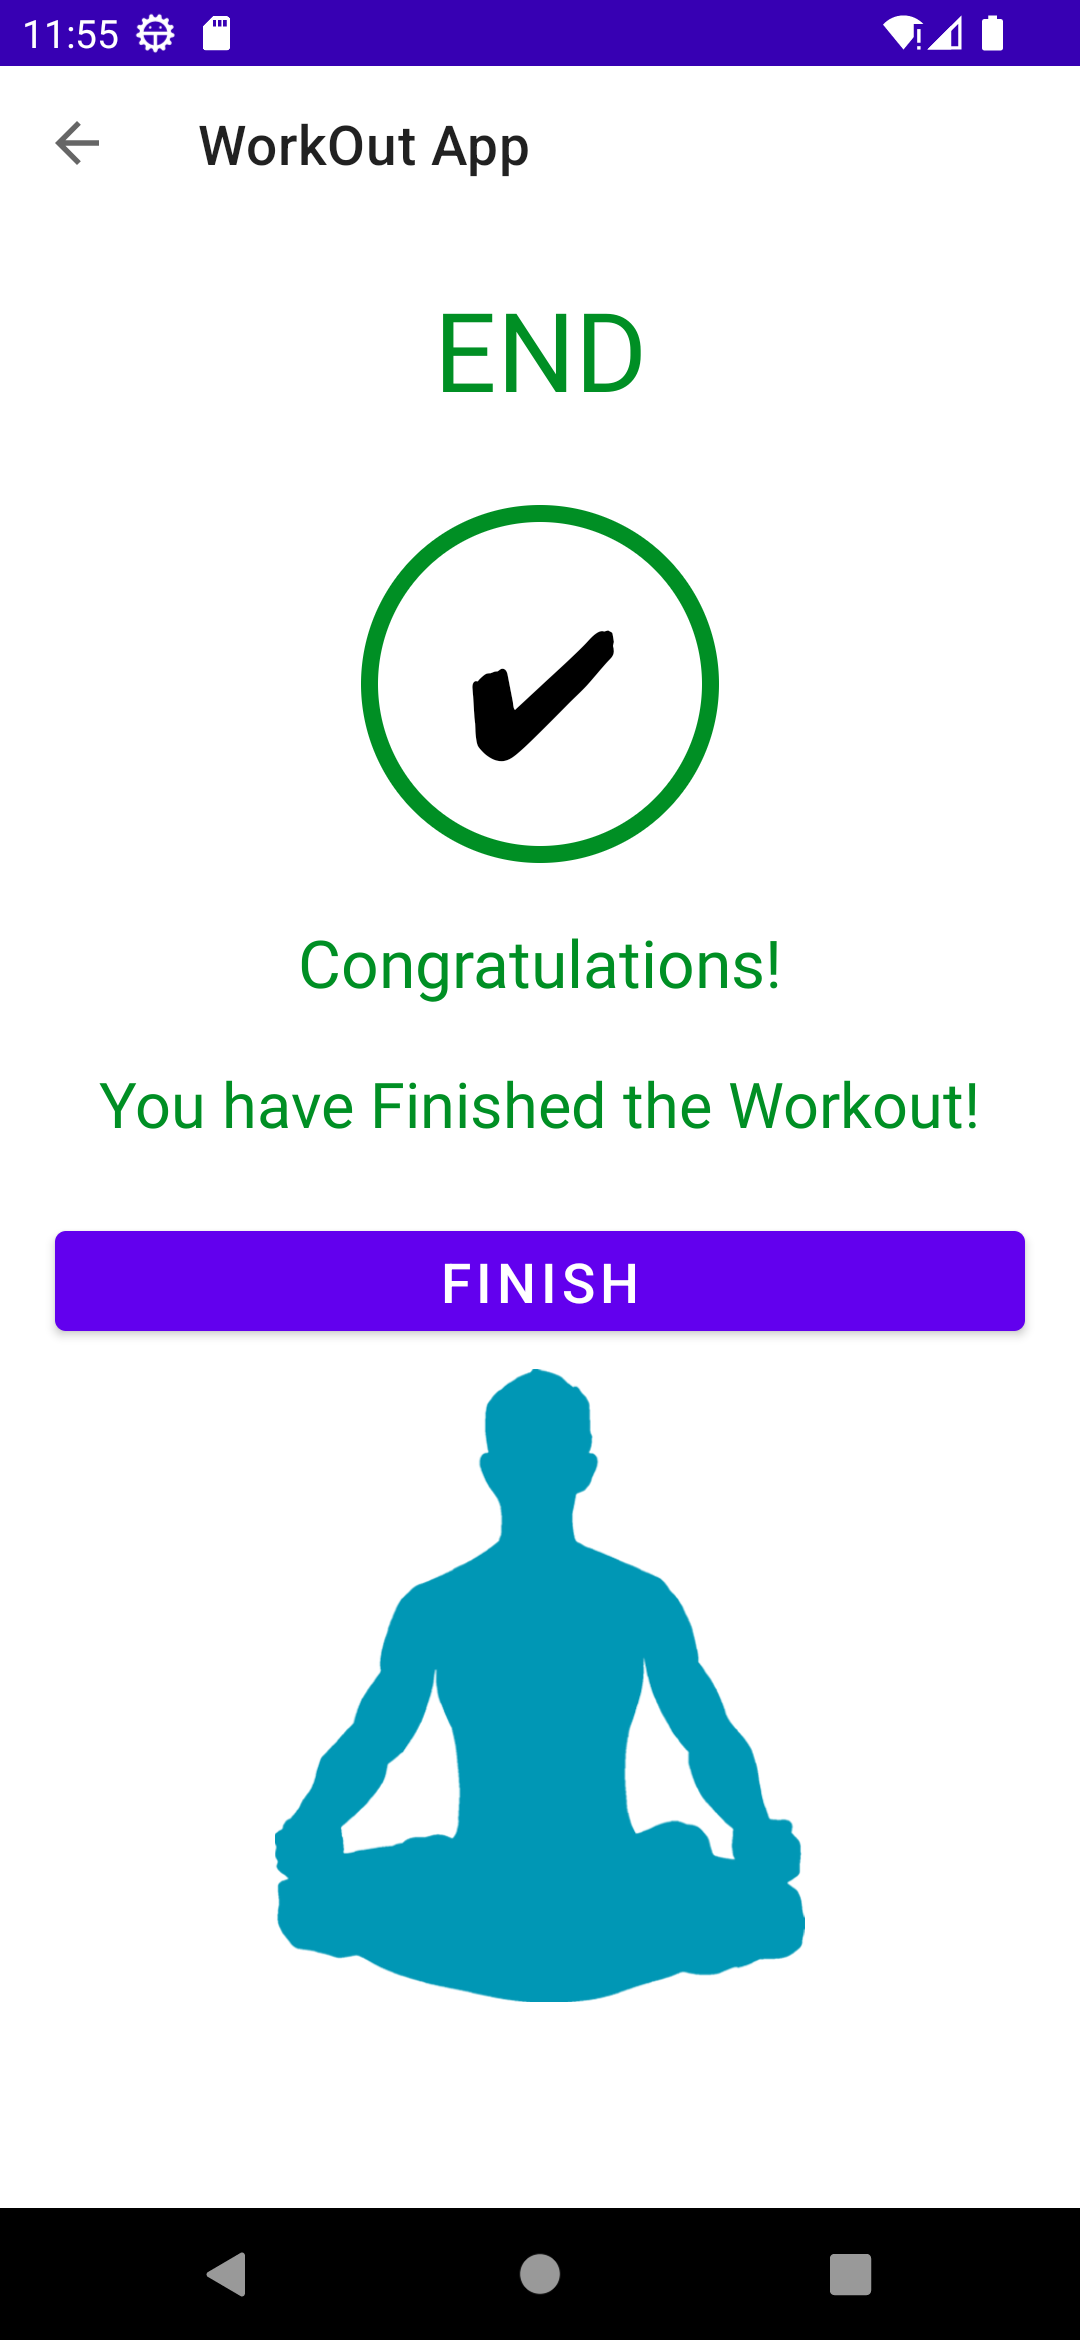
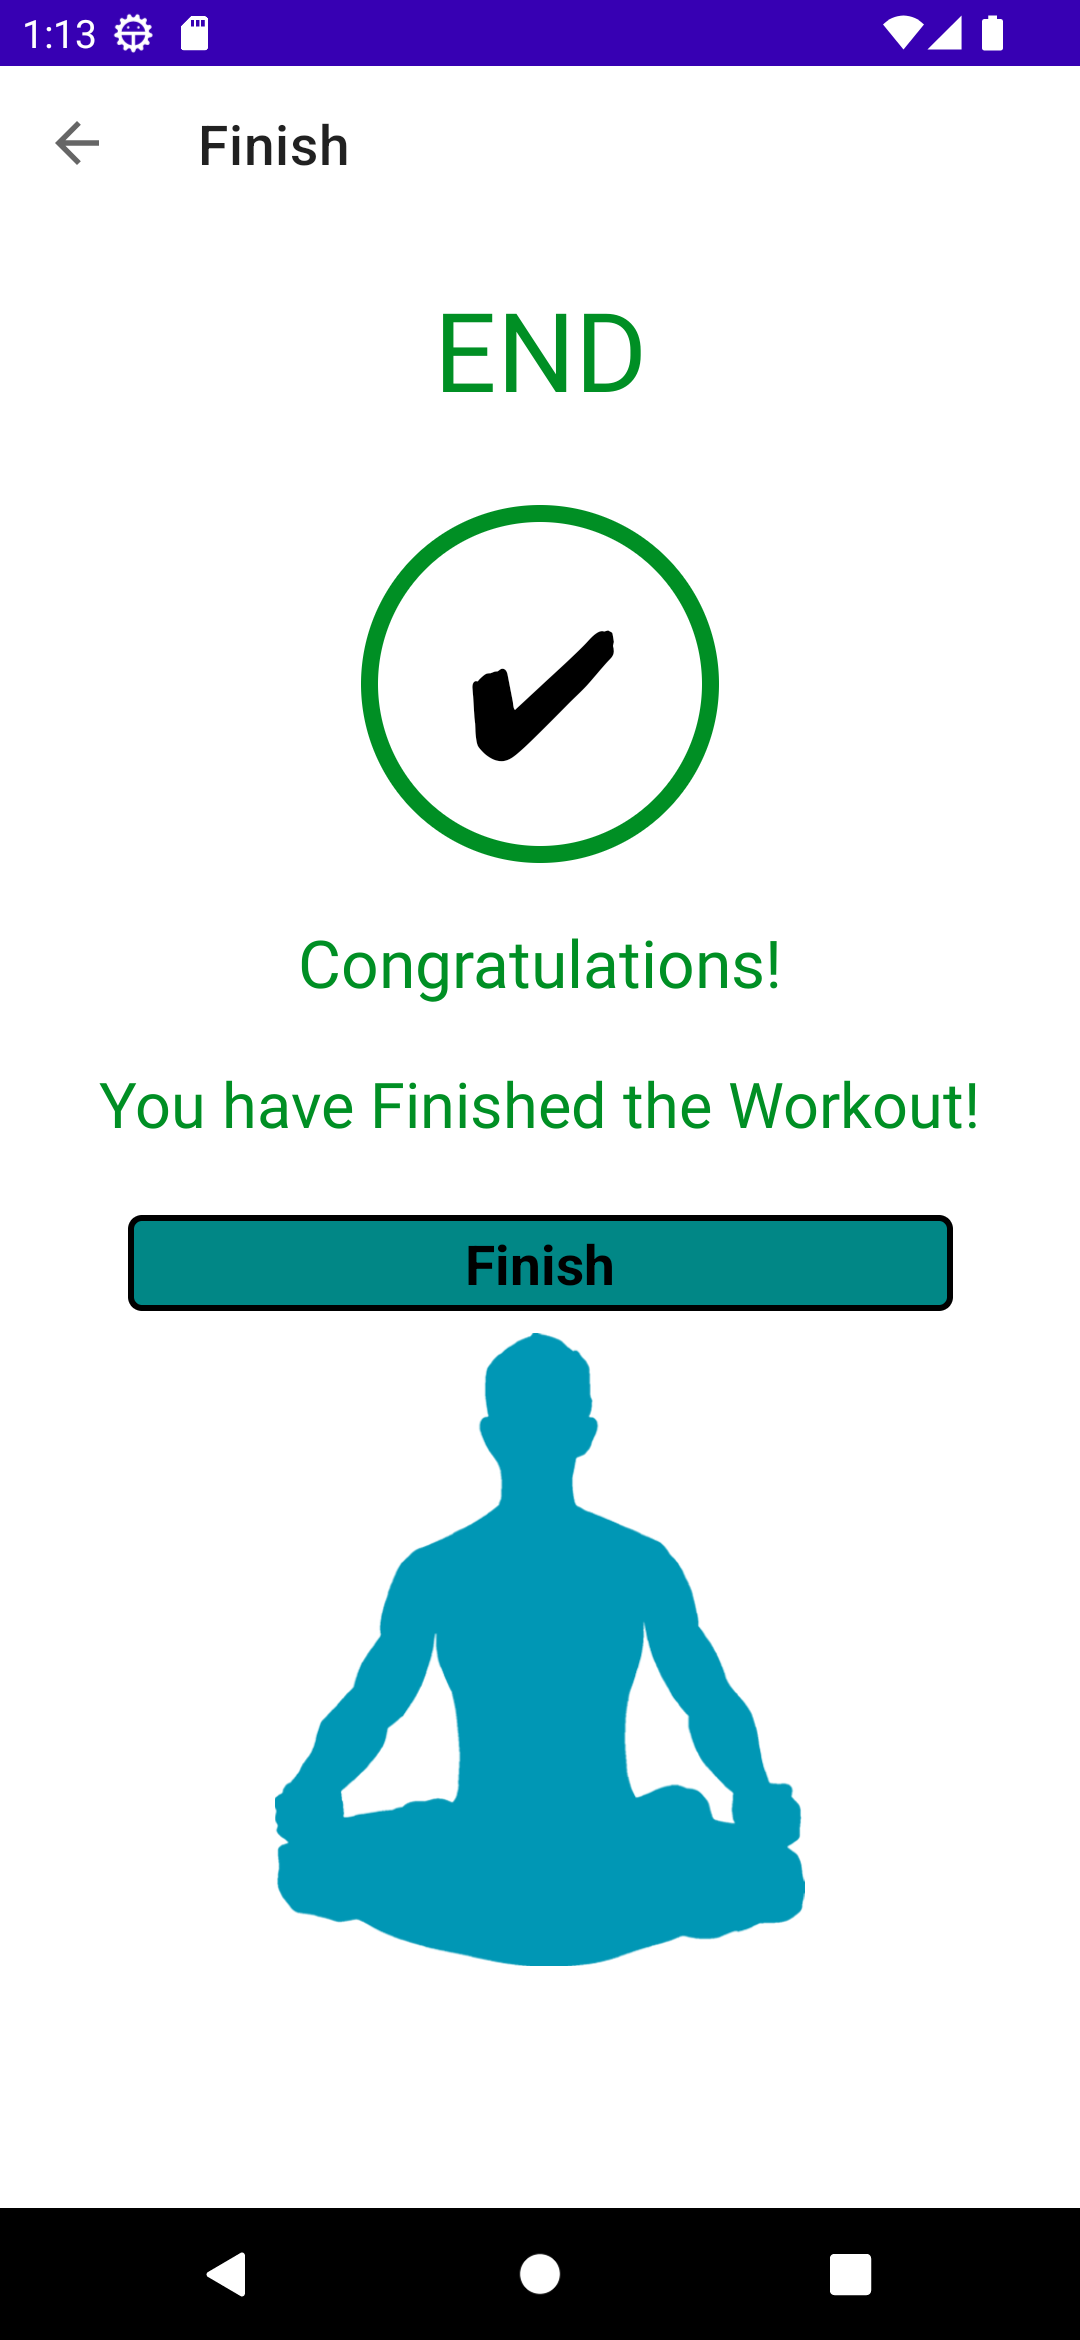
final

diff --git a/app/src/main/java/workoutApp/myapplication/bmiActivity.kt b/app/src/main/java/workoutApp/myapplication/bmiActivity.kt
@@ -95,20 +95,20 @@ class bmiActivity : AppCompatActivity() {
         val description: String
         if (bmi<18.5){
             type = "UnderWeight"
-            description = "Eat five to six smaller meals during the day rather than two or three large meals. Choose nutrient-rich foods. As part of an overall healthy diet, choose whole-grain breads, pastas and cereals; fruits and vegetables; dairy products; lean protein sources; and nuts and seeds. Try smoothies and shakes"
+            description = "Focus on building muscle and gaining weight in a healthy way. Incorporate strength training exercises and ensure you're consuming enough calories."
         }
         else if(bmi>=18.5 && bmi<25){
             type = "Healthy"
-            description = "Good health and good sense are two of life's greatest blessings."
+            description = "Stay consistent with exercise and a balanced diet. Try different workout styles and listen to your body's needs for rest and recovery."
 
         }
         else if(bmi>=25 && bmi<30){
             type = "OverWeight"
-            description = "Increase regular physical activity, a decrease in saturated fat intake, a decrease in sugar consumption, and an increase in fruit and vegetable consumption"
+            description = "Burn calories with cardiovascular exercises and make gradual changes to your eating habits. Seek professional guidance for a sustainable weight loss plan."
         }
         else{
-            type = "obesity"
-            description = "Oops! You are in a very Dangerous condition! Act Now!"
+            type = "Obesity"
+            description = "Consult a healthcare professional for personalized advice. Adopt a balanced diet and regular physical activity. Set realistic goals and seek support for motivation."
         }
         val bmiVal = BigDecimal(bmi.toDouble())
             .setScale(2,RoundingMode.HALF_EVEN).toString()

diff --git a/app/src/main/java/workoutApp/myapplication/exerciseActivity2.kt b/app/src/main/java/workoutApp/myapplication/exerciseActivity2.kt
@@ -40,8 +40,8 @@ class exerciseActivity2 : AppCompatActivity(), TextToSpeech.OnInitListener {
 
     private var exerciseAdapter: ExerciseStatusAdapter? = null
 
-    private var restTimerDuration: Long = 5
-    private var exerciseTimerDuration: Long = 5
+    private var restTimerDuration: Long = 10
+    private var exerciseTimerDuration: Long = 30
 
     override fun onCreate(savedInstanceState: Bundle?) {
         super.onCreate(savedInstanceState)

diff --git a/app/src/main/java/workoutApp/myapplication/ResultActivity.kt b/app/src/main/java/workoutApp/myapplication/ResultActivity.kt
@@ -24,6 +24,7 @@ class ResultActivity : AppCompatActivity() {
         if(supportActionBar != null){
             supportActionBar?.setDisplayHomeAsUpEnabled(true)
         }
+        supportActionBar?.title = "Finish"
         binding?.toolbarExercies?.setNavigationOnClickListener{
             onBackPressed()
         }
